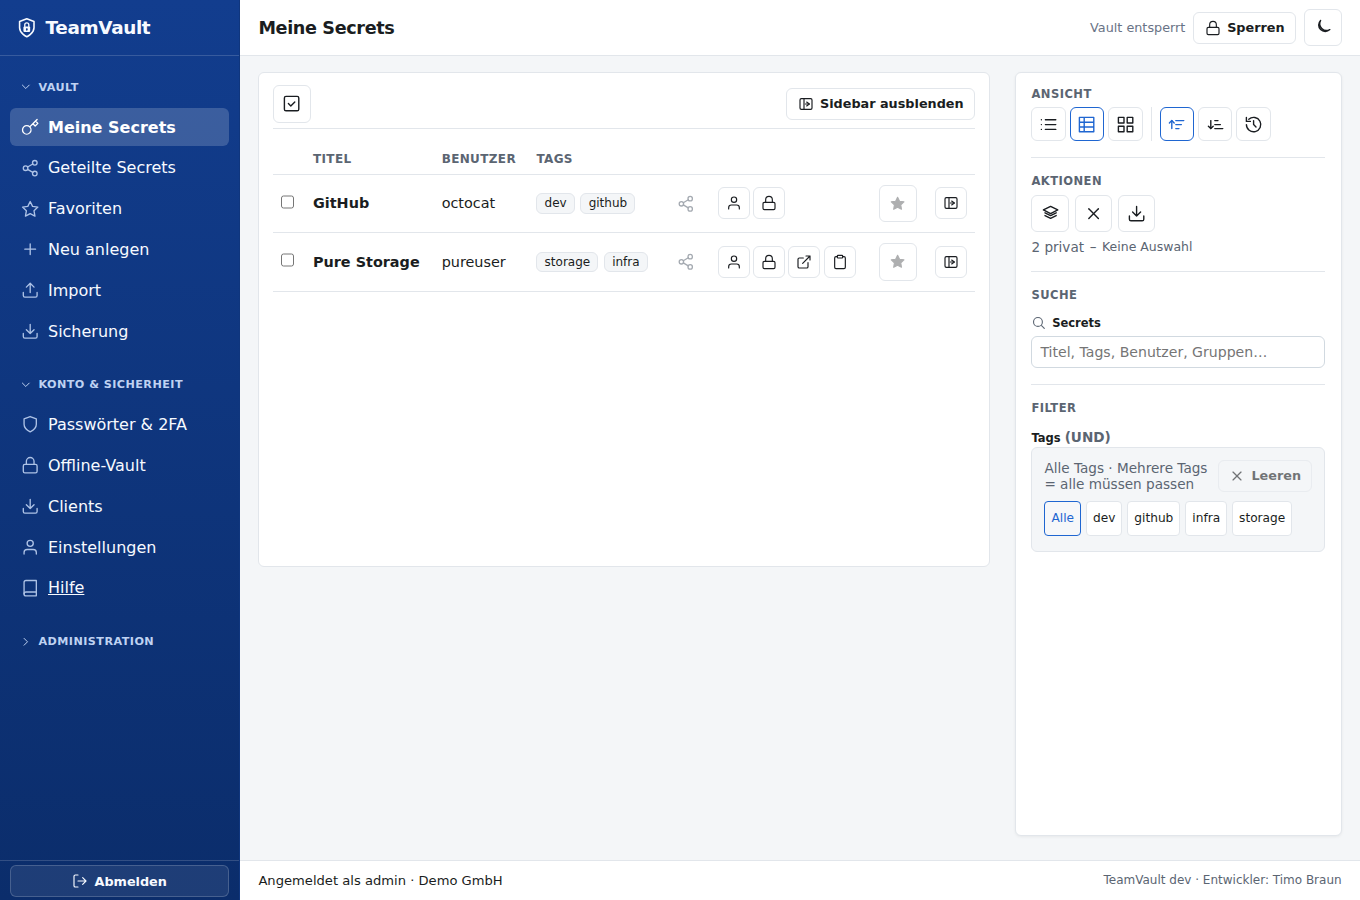
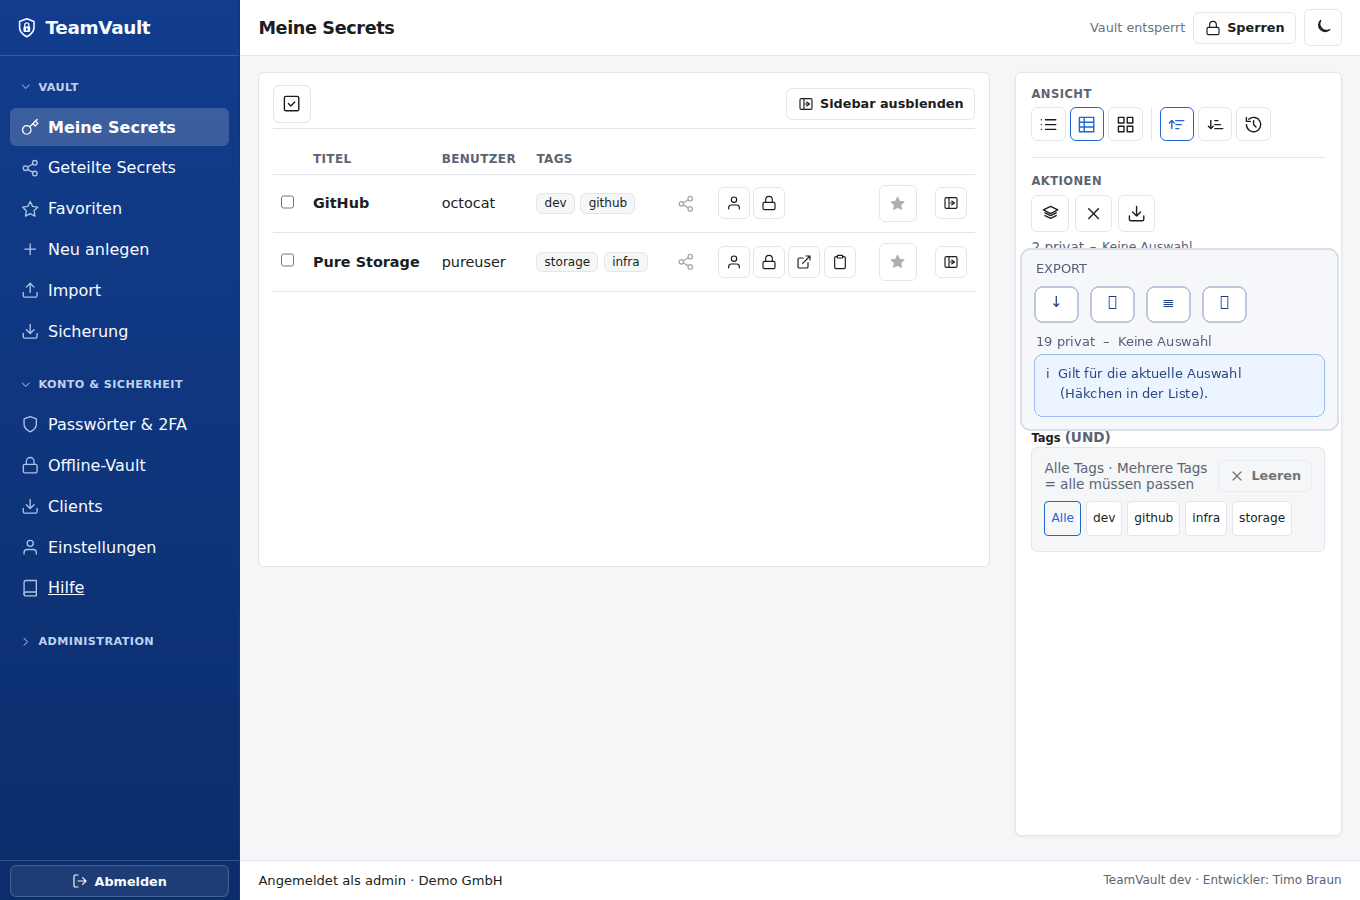
Refresh right-sidebar vault screenshots

Changed region(s): [[0.7412, 0.2489, 0.9265, 0.4667], [0.9574, 0.3733, 0.9882, 0.4044]]

diff --git a/web/static/app.js b/web/static/app.js
@@ -2146,12 +2146,6 @@ function renderApp(app) {
                       <button type="button" class="btn-icon" id="sExportCsv" title="CSV exportieren" aria-label="CSV exportieren">${icon("layoutTable")}</button>
                       <button type="button" class="btn-icon" id="sExportBak" title="Verschlüsselt (.tvbak) exportieren" aria-label="Verschlüsselt (.tvbak) exportieren">${icon("lock")}</button>
                     </div>
-                    <div class="secrets-export-legend" aria-hidden="true">
-                      <span>TV JSON</span>
-                      <span>BW JSON</span>
-                      <span>CSV</span>
-                      <span>.tvbak</span>
-                    </div>
                     <div class="secrets-sidebar-status">
                       <span class="hint" id="sCount"></span>
                       <span class="hint secrets-status-sep">–</span>

diff --git a/web/static/styles.css b/web/static/styles.css
@@ -1038,19 +1038,6 @@ h1 .heading-ico,
   flex-wrap: wrap;
   gap: 0.35rem;
 }
-.secrets-export-legend {
-  display: grid;
-  grid-template-columns: repeat(4, minmax(0, 1fr));
-  gap: 0.35rem;
-  margin-top: 0.2rem;
-  margin-bottom: 0.3rem;
-  font-size: 0.66rem;
-  color: var(--color-hint);
-}
-.secrets-export-legend span {
-  text-align: center;
-  white-space: nowrap;
-}
 .secrets-actions-tools + .secrets-sidebar-status .hint { margin: 0; }
 .secrets-actions-tools .btn-icon.active {
   border-color: var(--color-accent);
